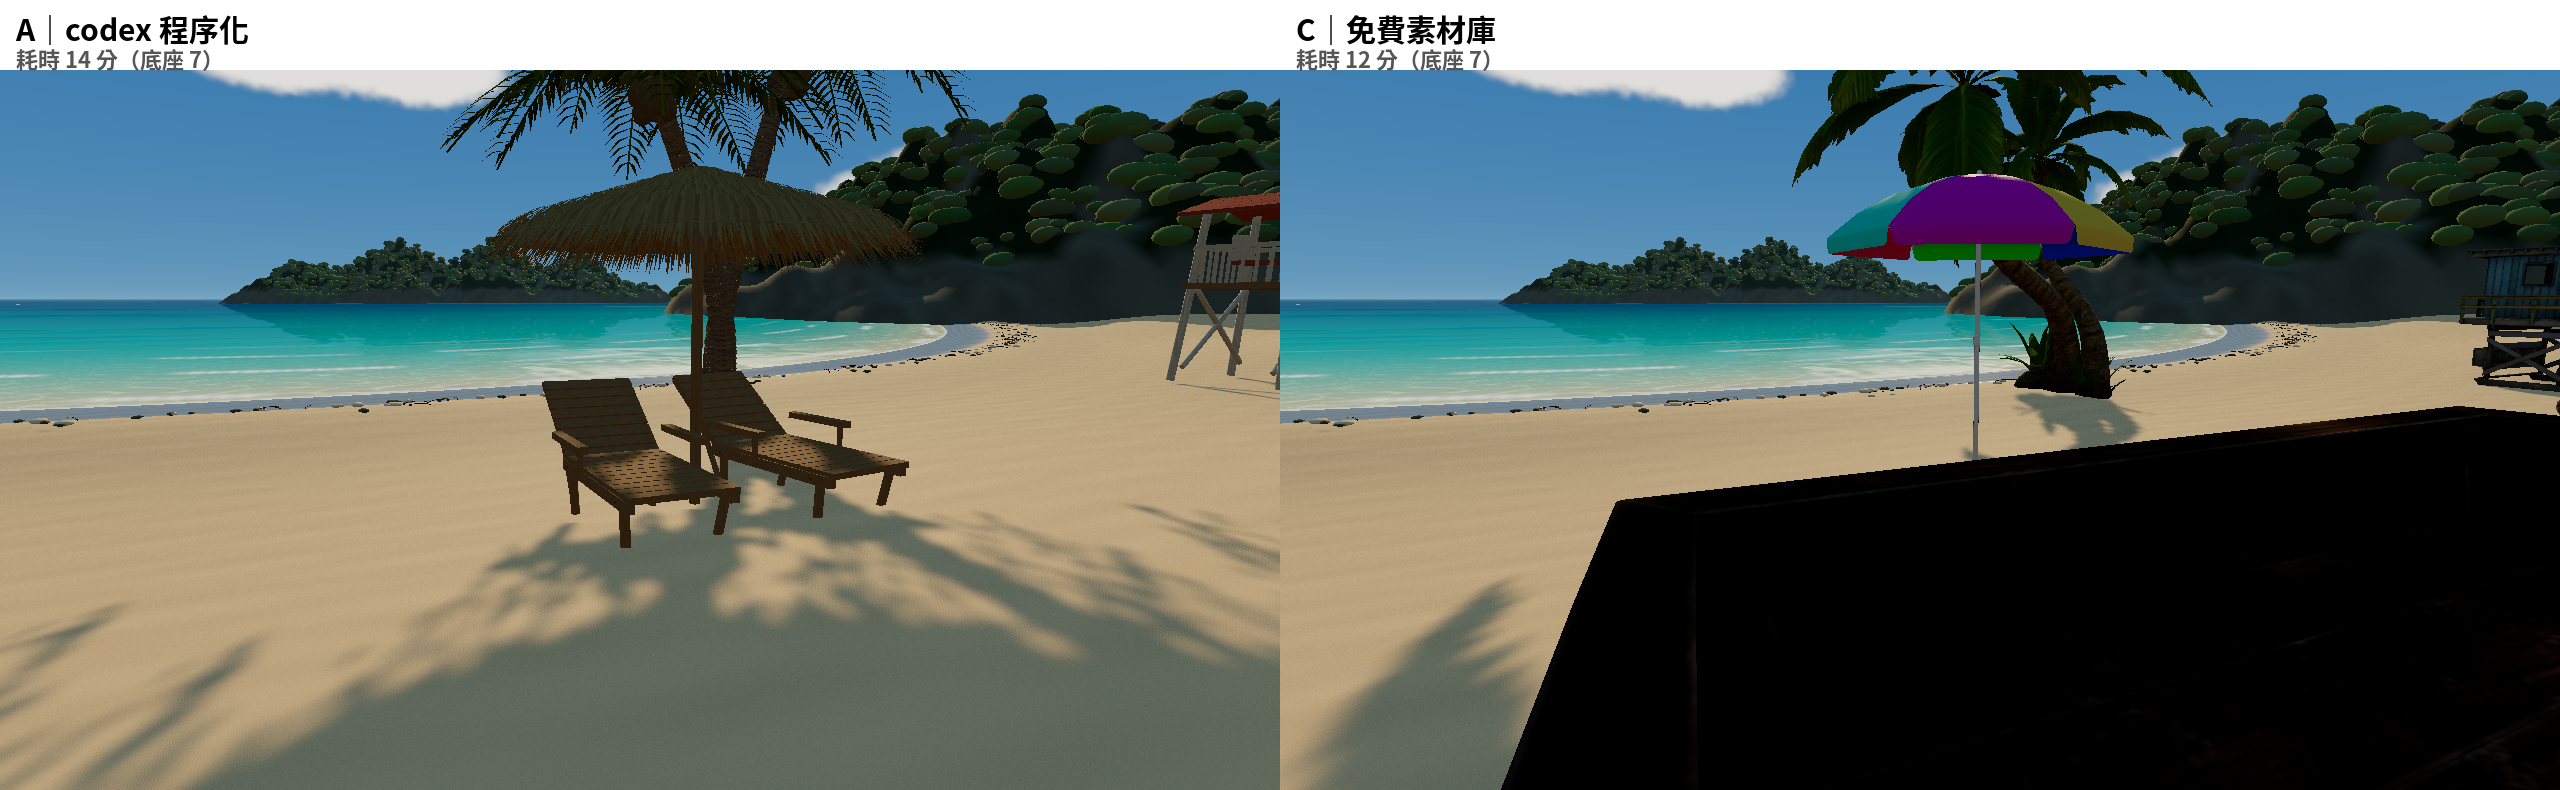
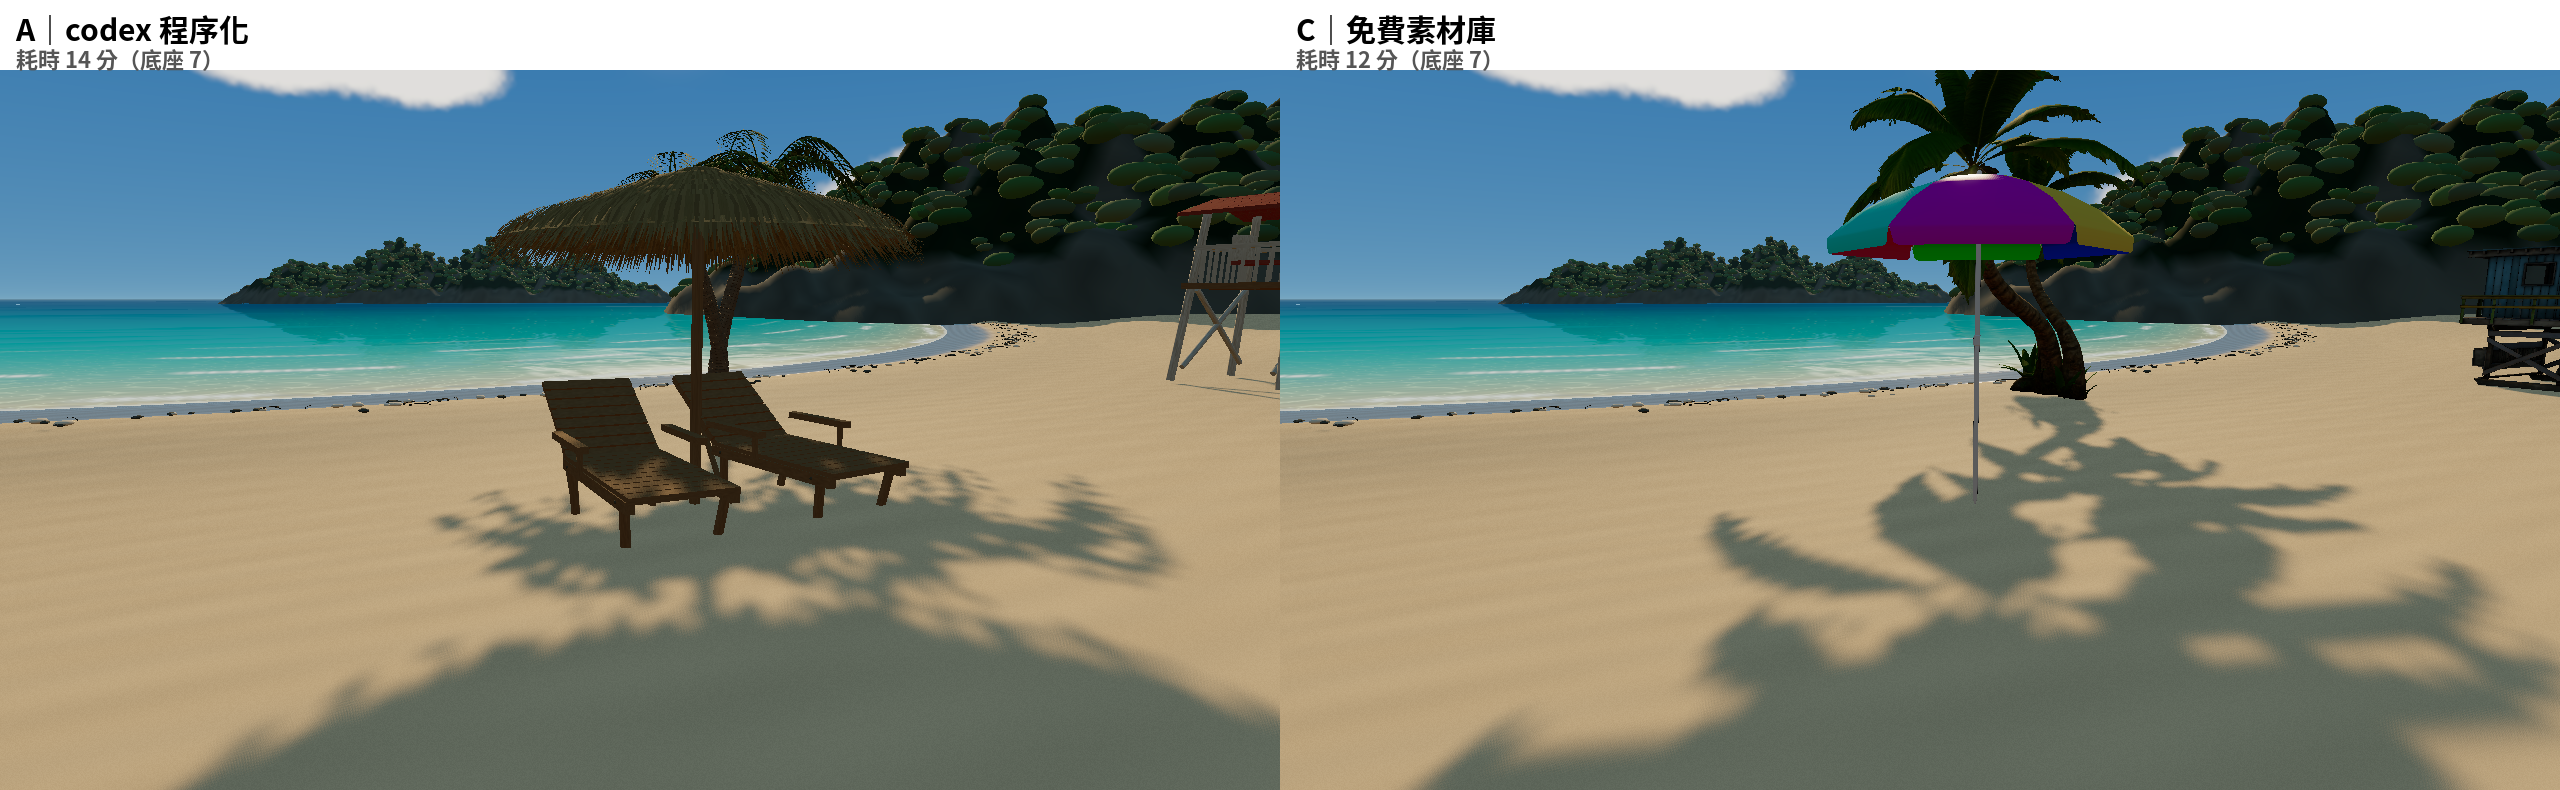
尺寸規則加入 maxLen（三組共用），重拍 A/C 與對照圖
Claude-Session: https://claude.ai/code/session_017Dz5B2YiHcy7TFMdGQHEuj

diff --git a/src/props.js b/src/props.js
@@ -12,6 +12,8 @@ function batchProp(model){
  model.traverse(o=>{if(!o.isMesh)return;const key=o.material.uuid;let batch=batches.get(key);if(!batch){batch={material:o.material,geometries:[]};batches.set(key,batch);}let geo=o.geometry.clone().applyMatrix4(o.matrixWorld);if(geo.index)geo=geo.toNonIndexed();batch.geometries.push(geo);});
  model.traverse(o=>{if(o.isMesh)o.geometry.dispose();});model.clear();model.position.set(0,0,0);model.quaternion.identity();model.scale.setScalar(1);for(const batch of batches.values()){const geo=mergeGeometries(batch.geometries);const mesh=new THREE.Mesh(geo,batch.material);mesh.castShadow=mesh.receiveShadow=true;model.add(mesh);batch.geometries.forEach(g=>g.dispose());}
 }
+// Fit inside the slot: height cap plus optional footprint cap (maxLen), same rule for every group.
+function fitScale(slot,size){let s=slot.height/size.y;if(slot.maxLen)s=Math.min(s,slot.maxLen/Math.max(size.x,size.z));return s;}
 export async function loadProps(group='A') {
  if (!['A','B','C'].includes(group)) throw new Error(`Unknown group: ${group}`);
  const response=await fetch('/assets/props.json');
@@ -25,7 +27,7 @@ export async function loadProps(group='A') {
   if(group==='A'){
    const model=new THREE.Group();slotStubs[slot.id](model);batchProp(model);
    const box=new THREE.Box3().setFromObject(model),size=box.getSize(new THREE.Vector3());
-   model.scale.multiplyScalar(slot.height/size.y);model.updateMatrixWorld(true);box.setFromObject(model);
+   model.scale.multiplyScalar(fitScale(slot,size));model.updateMatrixWorld(true);box.setFromObject(model);
    const center=box.getCenter(new THREE.Vector3());model.position.x-=center.x;model.position.z-=center.z;
    model.position.y+=groundHeight(slot.pos[0],slot.pos[2])-slot.pos[1]-box.min.y;
    marker.add(model);let triangles=0;model.traverse(o=>{if(o.isMesh)triangles+=(o.geometry.index?.count??o.geometry.attributes.position.count)/3;});
@@ -37,7 +39,7 @@ export async function loadProps(group='A') {
    const {scene:model}=await loader.loadAsync(path);
    const box=new THREE.Box3().setFromObject(model); const size=box.getSize(new THREE.Vector3());
    if(!Number.isFinite(size.y)||size.y<=0) throw new Error('Model has no measurable height');
-   model.scale.multiplyScalar(slot.height/size.y); model.updateMatrixWorld(true);
+   model.scale.multiplyScalar(fitScale(slot,size)); model.updateMatrixWorld(true);
    box.setFromObject(model); const center=box.getCenter(new THREE.Vector3());
    model.position.x-=center.x; model.position.z-=center.z;
    model.position.y+=groundHeight(slot.pos[0],slot.pos[2])-slot.pos[1]-box.min.y;
